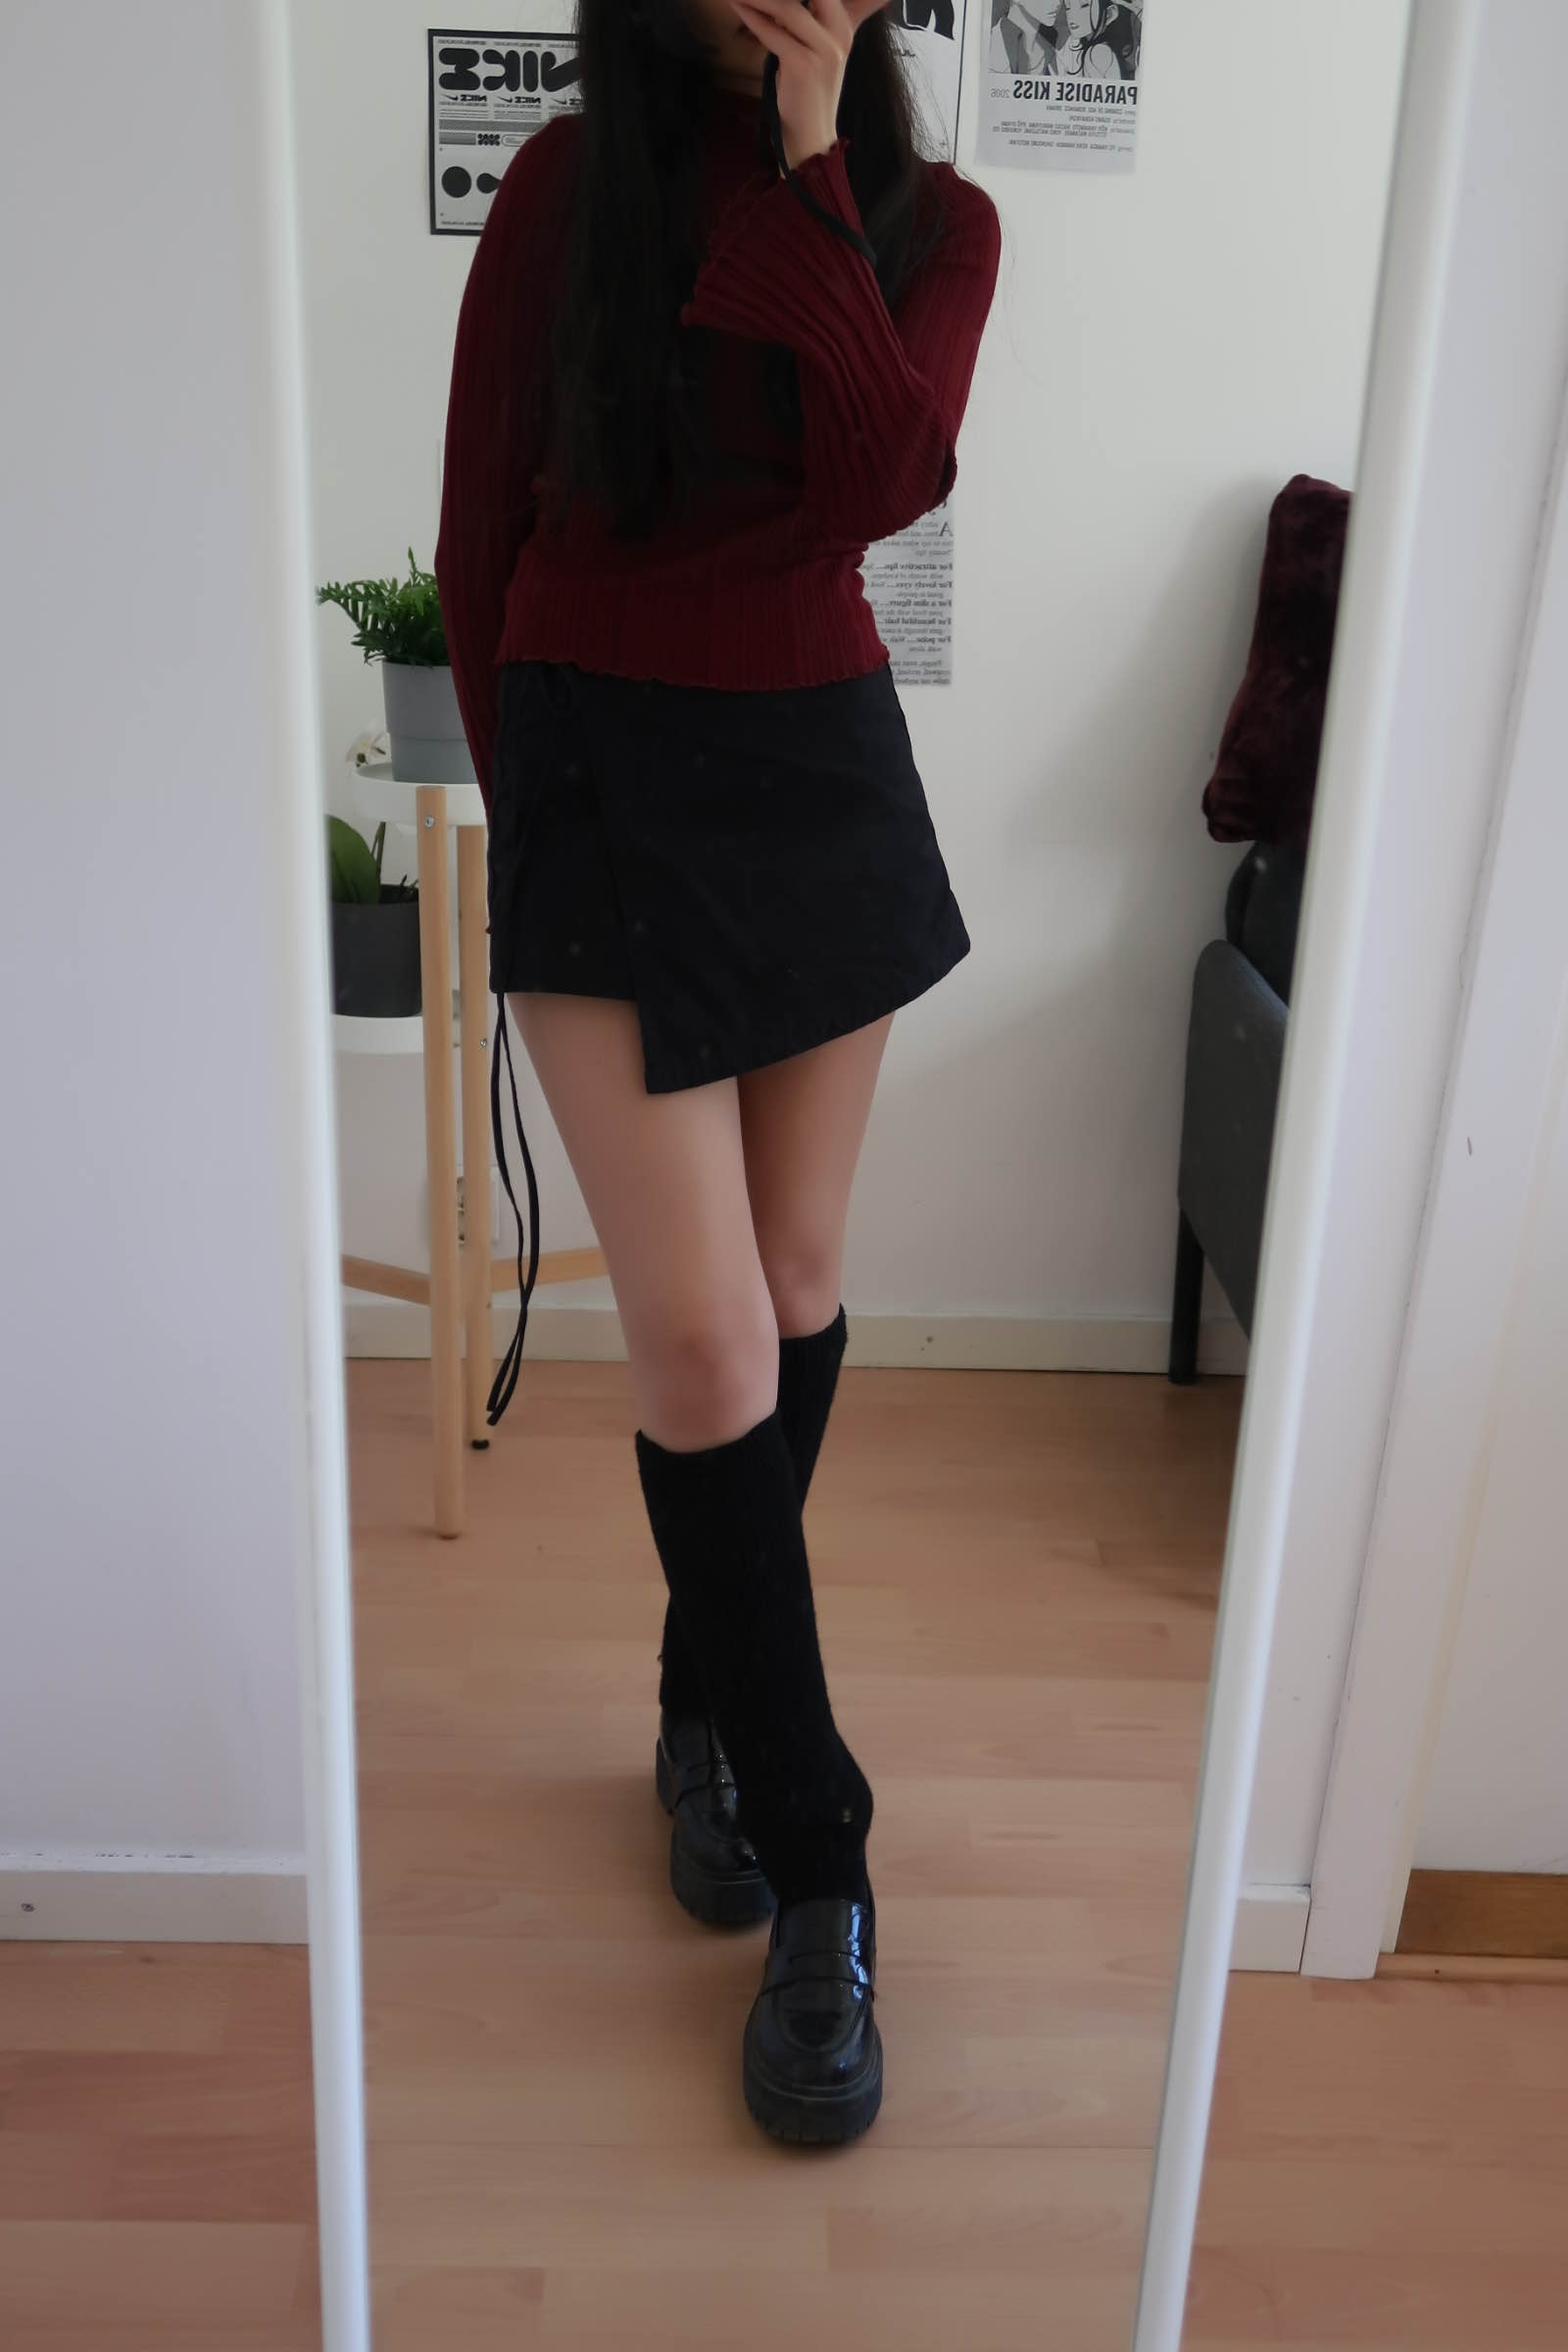
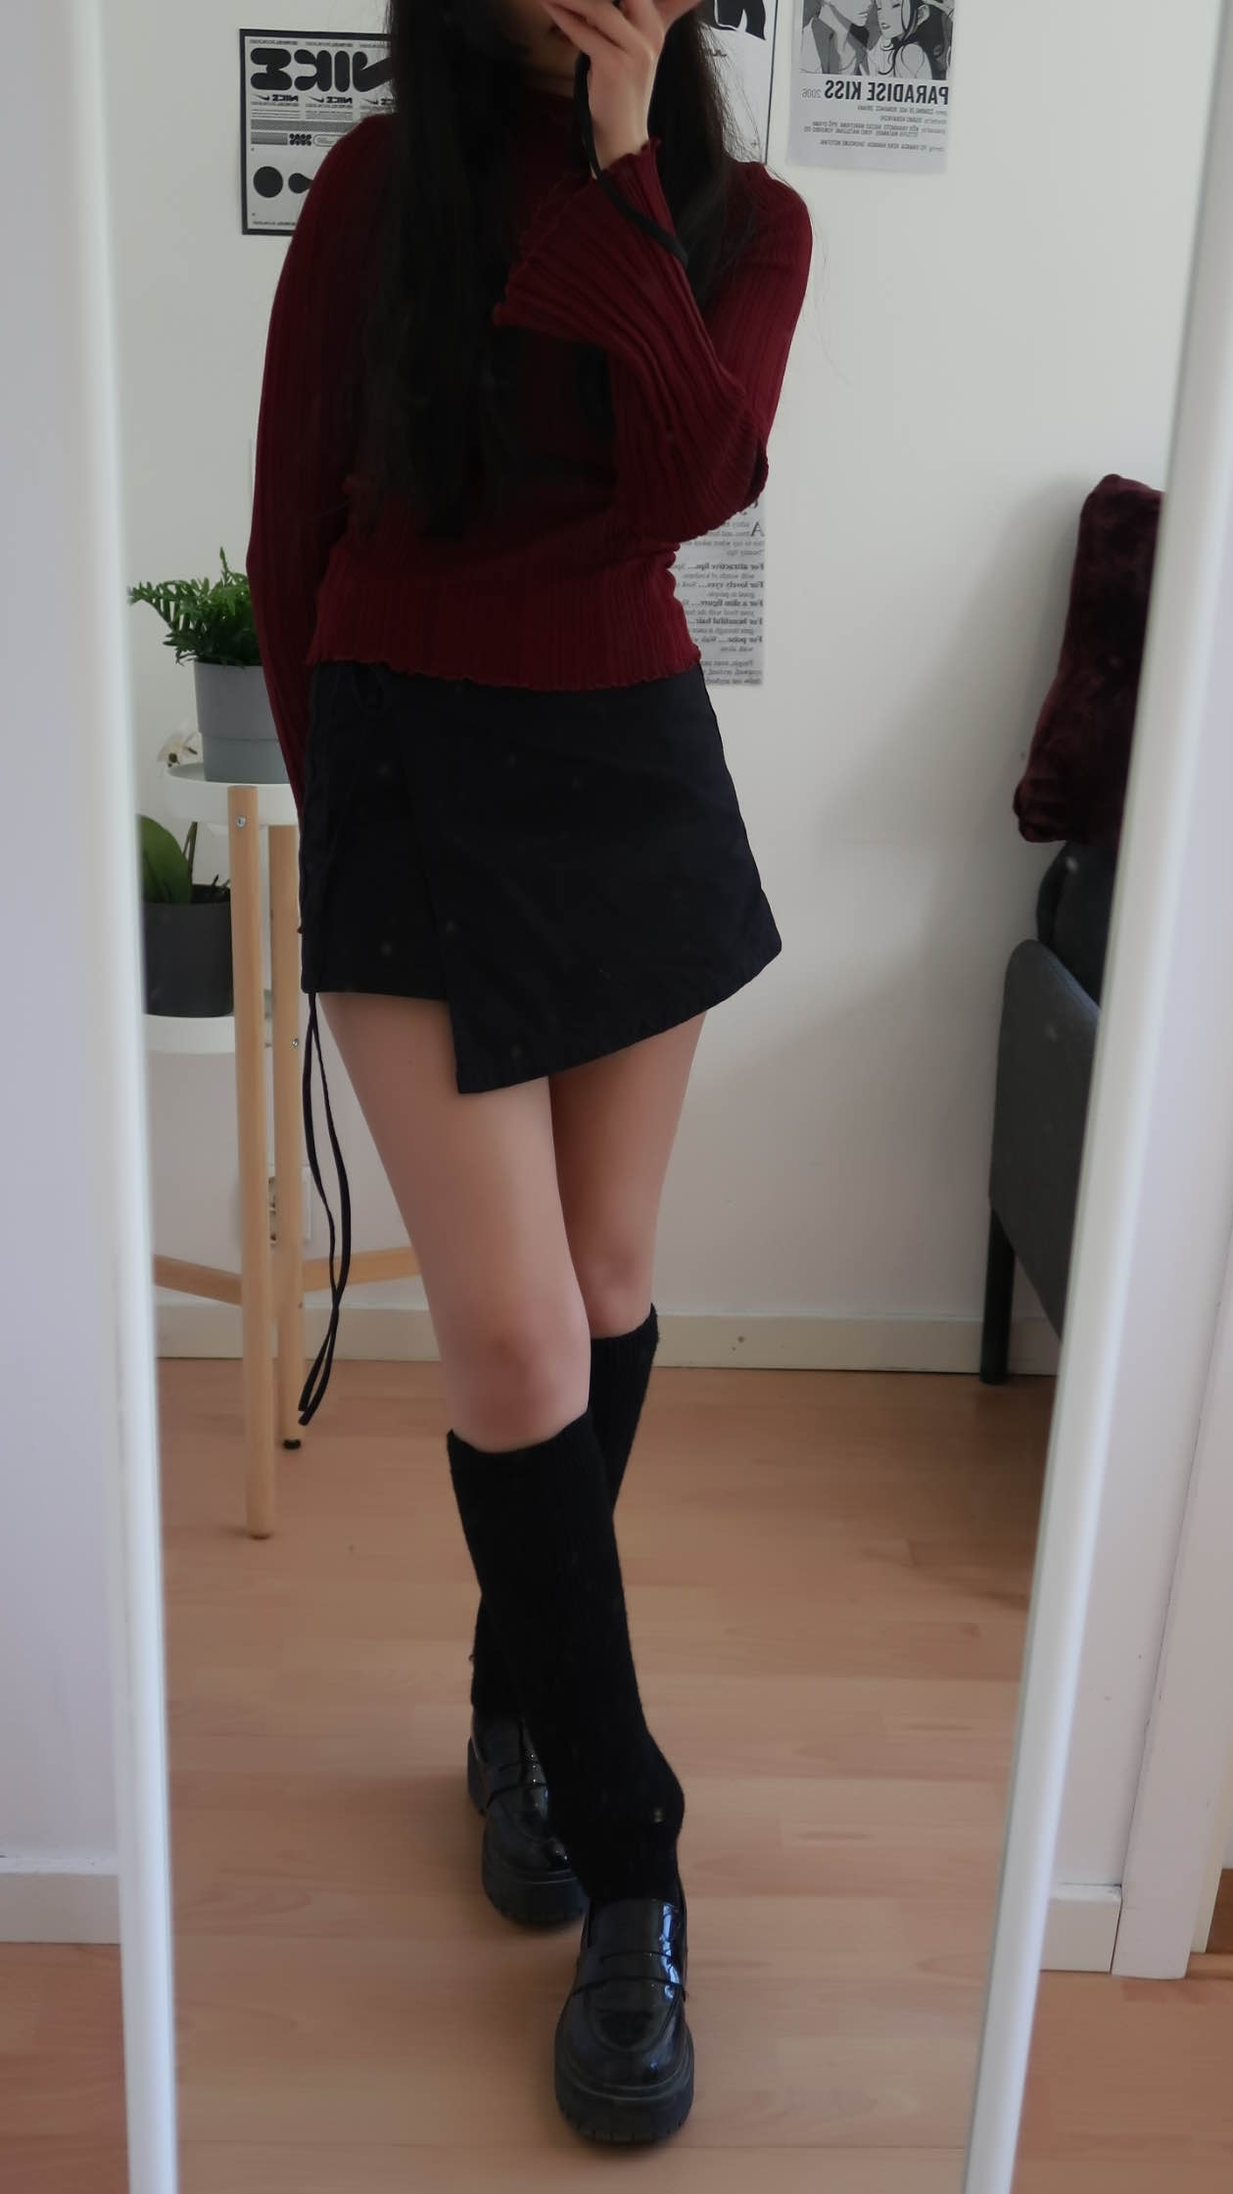
fixed image aspect ratios

diff --git a/resources/views/home.blade.php b/resources/views/home.blade.php
@@ -45,11 +45,11 @@
             <ul class="carousel-track">
                 <li class="carousel-slide"><img src="{{ asset('assets/images/outfit_showcase8.jpg') }}" alt="FitCheck"></li>
                 <li class="carousel-slide"><img src="{{ asset('assets/images/outfit_showcase.jpg') }}" alt="FitCheck"></li>
-                {{-- <li class="carousel-slide"><img src="{{ asset('assets/images/outfit_showcase10.jpg') }}" alt="FitCheck"></li> --}}
-                {{-- <li class="carousel-slide"><img src="{{ asset('assets/images/outfit_showcase11.jpg') }}" alt="FitCheck"></li> --}}
+                <li class="carousel-slide"><img src="{{ asset('assets/images/outfit_showcase10.jpg') }}" alt="FitCheck"></li>
+                <li class="carousel-slide"><img src="{{ asset('assets/images/outfit_showcase11.jpg') }}" alt="FitCheck"></li>
                 <li class="carousel-slide"><img src="{{ asset('assets/images/outfit_showcase6.jpg') }}" alt="FitCheck"></li>
                 <li class="carousel-slide"><img src="{{ asset('assets/images/outfit_showcase3.jpg') }}" alt="FitCheck"></li>
-                <li class="carousel-slide"><img src="{{ asset('assets/images/outfit_showcase5.jpg') }}" alt="FitCheck"></li>
+                <li class="carousel-slide"><img src="{{ asset('assets/images/outfit_showcase.jpg') }}" alt="FitCheck"></li>
             </ul>
         </div>
         <button class="carousel-button right">
